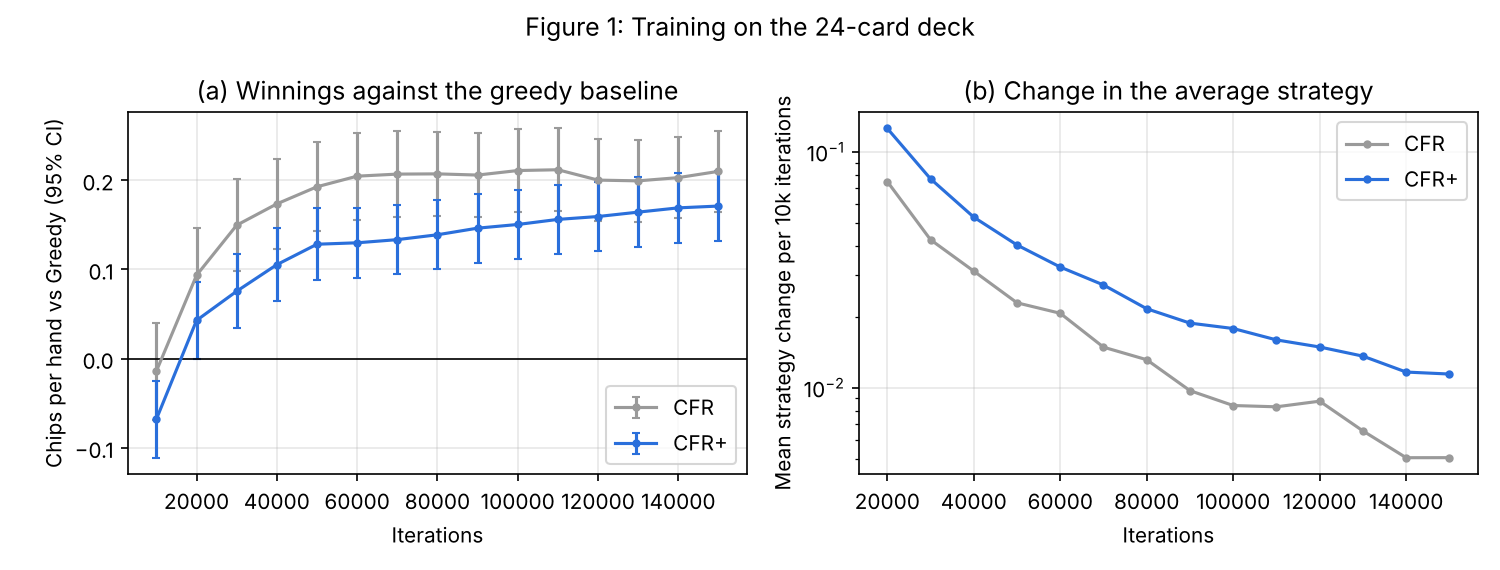
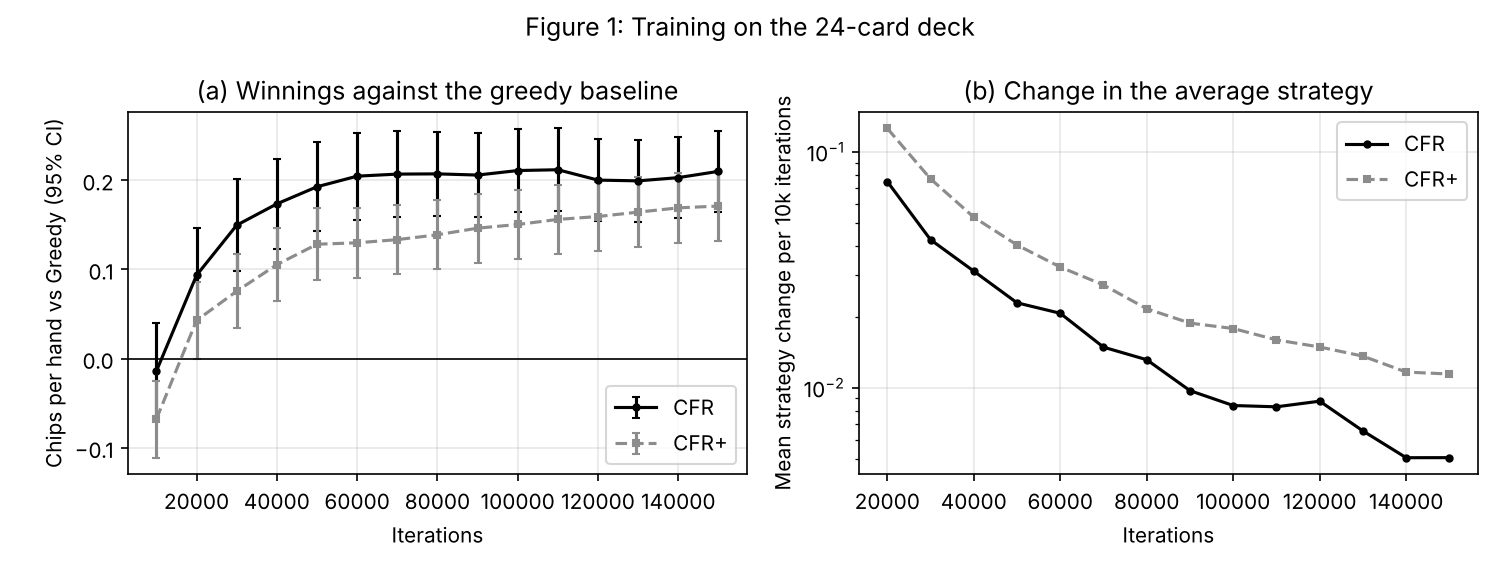
Switched to greyscale palette and added scripts for figures for final report

diff --git a/make_final_plots.py b/make_final_plots.py
@@ -1,0 +1,278 @@
+"""
+Figures and summary tables for the final report and poster (greyscale).
+
+  python make_final_plots.py
+
+Reads results/br/*.json, results/*_curve.csv, results/*_analysis.json and
+writes figures/final_*.png plus results/summary.json (every number the report
+quotes, so it can be checked against the raw results).
+"""
+
+import csv
+import glob
+import json
+import os
+import statistics as st
+
+import matplotlib
+
+matplotlib.use("Agg")
+import matplotlib.pyplot as plt  # noqa: E402
+from matplotlib.ticker import FuncFormatter, NullFormatter  # noqa: E402
+import math  # noqa: E402
+
+R, FIG = "results", "figures"
+SEEDS = (0, 1, 2)
+# name: (colour, marker, linestyle)
+STYLE = {
+    "CFR": ("#000000", "o", "-"),
+    "CFR+": ("#7f7f7f", "s", "--"),
+    "RM+ only": ("#4d4d4d", "^", ":"),
+    "Linear only": ("#a6a6a6", "D", "-."),
+    "External sampling": ("#262626", "v", (0, (5, 1))),
+}
+VARIANTS = {"CFR": "cfr24", "CFR+": "cfrplus24", "RM+ only": "rmplus24",
+            "Linear only": "linear24", "External sampling": "es24"}
+
+plt.rcParams.update({"font.size": 10, "axes.grid": True, "grid.alpha": 0.3})
+
+
+def load_br(tag):
+    p = f"{R}/br/{tag}.json"
+    return json.load(open(p)) if os.path.exists(p) else None
+
+
+def load_curve_csv(tag):
+    p = f"{R}/{tag}_curve.csv"
+    if not os.path.exists(p):
+        return {}
+    return {int(r["iteration"]): r for r in csv.DictReader(open(p))}
+
+
+def seeds_of(prefix):
+    return [s for s in SEEDS if load_br(f"{prefix}_s{s}")]
+
+
+def curve_stats(prefix, x="iteration"):
+    """Mean, min and max exploitability across seeds at each checkpoint."""
+    by_x = {}
+    for s in seeds_of(prefix):
+        br = load_br(f"{prefix}_s{s}")
+        rows = load_curve_csv(f"{prefix}_s{s}")
+        for pt in br.get("curve", []):
+            it = pt["iteration"]
+            key = it if x == "iteration" else int(rows[it]["touched"])
+            by_x.setdefault(it, []).append((key, pt["expl"]))
+    out = []
+    for it in sorted(by_x):
+        xs = [k for k, _ in by_x[it]]
+        ys = [v for _, v in by_x[it]]
+        out.append((st.mean(xs), st.mean(ys), min(ys), max(ys), len(ys)))
+    return out
+
+
+def plot_line(ax, name, pts):
+    if not pts:
+        return
+    c, m, ls = STYLE[name]
+    xs = [p[0] for p in pts]
+    ys = [p[1] for p in pts]
+    lo = [p[1] - p[2] for p in pts]
+    hi = [p[3] - p[1] for p in pts]
+    ax.errorbar(xs, ys, yerr=[lo, hi], color=c, marker=m, ls=ls, ms=4, capsize=2, label=name)
+
+
+def plain_log_axes(ax):
+    fmt = FuncFormatter(lambda v, _: f"{v:g}")
+    ax.yaxis.set_major_formatter(fmt)
+    ax.yaxis.set_minor_formatter(FuncFormatter(lambda v, _: f"{v:g}" if str(f"{v:g}")[-1] in "25" else ""))
+
+
+def slope(pts):
+    """Least-squares slope of log(exploitability) against log(x)."""
+    xs = [math.log(p[0]) for p in pts]
+    ys = [math.log(p[1]) for p in pts]
+    mx, my = st.mean(xs), st.mean(ys)
+    return sum((x - mx) * (y - my) for x, y in zip(xs, ys)) / sum((x - mx) ** 2 for x in xs)
+
+
+def fig_variants(summary):
+    fig, axes = plt.subplots(1, 2, figsize=(11, 4.2))
+    for name in ("CFR", "CFR+", "RM+ only", "Linear only"):
+        plot_line(axes[0], name, curve_stats(VARIANTS[name]))
+    axes[0].set_xscale("log")
+    axes[0].set_yscale("log")
+    axes[0].set_xlabel("Iterations")
+    axes[0].set_ylabel("Exploitability lower bound (chips/hand)")
+    axes[0].set_title("(a) CFR+ and its two ingredients")
+    axes[0].legend()
+    for name in ("CFR", "CFR+", "External sampling"):
+        plot_line(axes[1], name, curve_stats(VARIANTS[name], x="touched"))
+    axes[1].set_xscale("log")
+    axes[1].set_yscale("log")
+    axes[1].set_xlabel("Game-tree nodes visited (machine-independent cost)")
+    axes[1].set_title("(b) Equal-cost comparison with external sampling")
+    axes[1].legend()
+    for ax in axes:
+        plain_log_axes(ax)
+    fig.tight_layout()
+    fig.savefig(f"{FIG}/final_variants.png", dpi=170)
+    plt.close(fig)
+    for name, prefix in VARIANTS.items():
+        pts = curve_stats(prefix)
+        summary.setdefault("curves", {})[name] = pts
+        summary.setdefault("curves_touched", {})[name] = curve_stats(prefix, x="touched")
+        if len(pts) >= 2:
+            summary.setdefault("slopes", {})[name] = slope(pts)
+
+
+def final_table(summary):
+    """Final exploitability and self-play value per configuration and seed."""
+    tab = {}
+    for path in sorted(glob.glob(f"{R}/br/*_s[0-9].json")):
+        b = json.load(open(path))
+        f = b["final"]
+        tab[b["tag"]] = {"config": b["config"], "abstraction": b["abstraction"], "iters": b["iters"],
+                         "expl": f["bucket"]["expl"], "expl_se": f["bucket"]["se"],
+                         "in_sample": f["bucket"]["in_sample"],
+                         "br_p0": f["bucket"]["br_value_p0"], "br_p1": f["bucket"]["br_value_p1"],
+                         "selfplay_p0": f["selfplay_p0"]["mean"],
+                         "selfplay_se": f["selfplay_p0"]["se"]}
+        pkl = f"{R}/{b['tag']}_curve.csv"
+        if os.path.exists(pkl):
+            last = list(csv.DictReader(open(pkl)))[-1]
+            tab[b["tag"]]["train_seconds"] = float(last["train_seconds"])
+            tab[b["tag"]]["touched"] = int(last["touched"])
+            tab[b["tag"]]["infosets"] = int(last["infosets"])
+    summary["final"] = tab
+    groups = {}
+    for tag, row in tab.items():
+        groups.setdefault(tag.rsplit("_s", 1)[0], []).append(row)
+    summary["groups"] = {g: {"n": len(rows),
+                             "expl_mean": st.mean(r["expl"] for r in rows),
+                             "expl_min": min(r["expl"] for r in rows),
+                             "expl_max": max(r["expl"] for r in rows),
+                             "selfplay_mean": st.mean(r["selfplay_p0"] for r in rows),
+                             "selfplay_min": min(r["selfplay_p0"] for r in rows),
+                             "selfplay_max": max(r["selfplay_p0"] for r in rows)}
+                         for g, rows in groups.items()}
+    return tab
+
+
+def fig_decks(summary):
+    tab = summary["final"]
+    fig, axes = plt.subplots(1, 2, figsize=(10, 3.8))
+    labels = ["20-card", "24-card", "28-card"]
+    prefixes = ["cfr20", "cfr24", "cfr28"]
+    for i, pre in enumerate(prefixes):
+        rows = [tab[f"{pre}_s{s}"] for s in SEEDS if f"{pre}_s{s}" in tab]
+        for j, r in enumerate(rows):
+            off = (j - 1) * 0.12
+            axes[0].errorbar(i + off, r["expl"], yerr=1.96 * r["expl_se"], fmt="o", color="black",
+                             capsize=3, ms=4)
+            axes[1].errorbar(i + off, r["selfplay_p0"], yerr=1.96 * r["selfplay_se"], fmt="s",
+                             color="black", capsize=3, ms=4)
+    for ax in axes:
+        ax.set_xticks(range(3))
+        ax.set_xticklabels(labels)
+        ax.set_xlim(-0.5, 2.5)
+    axes[0].set_ylabel("Exploitability lower bound (chips/hand)")
+    axes[0].set_title("(a) Exploitability by deck")
+    axes[0].set_ylim(bottom=0)
+    axes[1].set_ylabel("P0 value in self-play (chips/hand)")
+    axes[1].set_title("(b) First-player value by deck")
+    fig.tight_layout()
+    fig.savefig(f"{FIG}/final_decks.png", dpi=170)
+    plt.close(fig)
+
+
+def behaviour(summary):
+    """Behaviour statistics across seeds (from `analyse`)."""
+    out = {}
+    for path in sorted(glob.glob(f"{R}/*_s[0-9]_analysis.json")):
+        a = json.load(open(path))
+        tag = os.path.basename(path).replace("_analysis.json", "")
+        hc = a["draw_by_category"].get("High card", {})
+        trips = a["draw_by_category"].get("Three of a kind", {})
+        resp = a["p1_response_to_bet_by_p0_draw"]
+        bets = a["first_bet_by_final_category"]
+        out[tag] = {
+            "vs_greedy": a["vs_greedy"]["mean"], "vs_greedy_se": a["vs_greedy"]["se"],
+            "vs_random": a["vs_random"]["mean"], "vs_random_se": a["vs_random"]["se"],
+            "pat_on_high_card": hc.get("0"), "one_to_trips": trips.get("1"),
+            "fold_vs_pat": resp.get("0", {}).get("f"),
+            "fold_vs_draw": {k: v.get("f") for k, v in resp.items() if k != "0"},
+            "raise_vs_pat": resp.get("0", {}).get("r"),
+            "raise_vs_draw": {k: v.get("r") for k, v in resp.items() if k != "0"},
+            "bet_by_category": bets,
+        }
+    summary["behaviour"] = out
+
+
+def fig_draws(tag="cfr24_s0"):
+    p = f"{R}/{tag}_analysis.json"
+    if not os.path.exists(p):
+        # identical strategy (same seed and length)
+        p = f"{R}/cfr24_analysis.json"
+    a = json.load(open(p))
+    order = ["High card", "One pair", "Two pair", "Three of a kind", "Straight", "Full house", "Flush"]
+    order = [c for c in order if c in a["draw_by_category"]]
+    shades = ["#262626", "#666666", "#a6a6a6", "#e0e0e0"]
+    fig, ax = plt.subplots(figsize=(8, 3.6))
+    for i, cat in enumerate(order[::-1]):
+        left = 0.0
+        d = a["draw_by_category"][cat]
+        for k in range(4):
+            v = d.get(str(k), 0.0)
+            ax.barh(i, v, left=left, color=shades[k], edgecolor="black", linewidth=0.4,
+                    label=f"draw {k}" if i == 0 else None)
+            if v >= 0.07:
+                ax.text(left + v / 2, i, f"{v:.0%}", ha="center", va="center", fontsize=8,
+                        color="white" if k < 2 else "black")
+            left += v
+    ax.set_yticks(range(len(order)))
+    ax.set_yticklabels(order[::-1])
+    ax.set_xlim(0, 1)
+    ax.set_xlabel("Share of decisions (reach-weighted, self-play)")
+    ax.legend(ncol=4, loc="upper center", bbox_to_anchor=(0.5, -0.2), frameon=False)
+    ax.grid(False)
+    fig.tight_layout()
+    fig.savefig(f"{FIG}/final_draws.png", dpi=170)
+    plt.close(fig)
+
+
+def fig_kuhn():
+    p = f"{R}/kuhn_convergence.csv"
+    if not os.path.exists(p):
+        return
+    rows = list(csv.DictReader(open(p)))
+    t = [int(r["iteration"]) for r in rows]
+    e = [float(r["exploitability"]) for r in rows]
+    fig, ax = plt.subplots(figsize=(5.5, 3.6))
+    ax.loglog(t, e, "o-", color="black", ms=3, label="CFR average strategy")
+    c = e[0] * t[0] ** 0.5
+    ax.loglog(t, [c / x ** 0.5 for x in t], "--", color="grey", label="O(1/sqrt(T)) reference")
+    ax.set_xlabel("Iterations")
+    ax.set_ylabel("Exact exploitability")
+    ax.legend()
+    fig.tight_layout()
+    fig.savefig(f"{FIG}/final_kuhn.png", dpi=170)
+    plt.close(fig)
+
+
+def main():
+    os.makedirs(FIG, exist_ok=True)
+    summary = {}
+    fig_variants(summary)
+    final_table(summary)
+    fig_decks(summary)
+    behaviour(summary)
+    fig_draws()
+    fig_kuhn()
+    with open(f"{R}/summary.json", "w") as f:
+        json.dump(summary, f, indent=1)
+    print("figures written; summary in results/summary.json")
+
+
+if __name__ == "__main__":
+    main()

diff --git a/make_plots.py b/make_plots.py
@@ -13,7 +13,8 @@ matplotlib.use("Agg")
 import matplotlib.pyplot as plt
 
 R, F = "results", "figures"
-GREY, BLUE, LIGHT = "#9a9a9a", "#2a6fdb", "#c9d8f5"
+# greyscale
+GREY, BLUE, LIGHT = "#8c8c8c", "#000000", "#d9d9d9"
 
 
 def curve(tag):
@@ -28,14 +29,14 @@ def analysis(tag):
 
 def fig_convergence():
     fig, axes = plt.subplots(1, 2, figsize=(10, 3.8))
-    for tag, name, col in [("cfr24", "CFR", GREY), ("cfrplus24", "CFR+", BLUE)]:
+    for tag, name, col, mk, ls in [("cfr24", "CFR", BLUE, "o", "-"), ("cfrplus24", "CFR+", GREY, "s", "--")]:
         rows = curve(tag)
         t = [int(r["iteration"]) for r in rows]
         g = [float(r["vs_greedy"]) for r in rows]
         se = [float(r["vs_greedy_se"]) for r in rows]
-        axes[0].errorbar(t, g, yerr=[1.96 * s for s in se], marker="o", ms=3, capsize=2, color=col, label=name)
+        axes[0].errorbar(t, g, yerr=[1.96 * s for s in se], marker=mk, ls=ls, ms=3, capsize=2, color=col, label=name)
         ch = [float(r["strategy_change"]) for r in rows[1:]]
-        axes[1].plot(t[1:], ch, marker="o", ms=3, color=col, label=name)
+        axes[1].plot(t[1:], ch, marker=mk, ls=ls, ms=3, color=col, label=name)
     axes[0].axhline(0, color="black", lw=0.8)
     axes[0].set_xlabel("Iterations")
     axes[0].set_ylabel("Chips per hand vs Greedy (95% CI)")
@@ -73,12 +74,12 @@ def fig_draws():
     a = analysis("cfr24")
     order = [c for c in ["High card", "One pair", "Two pair", "Three of a kind", "Straight",
                          "Full house", "Flush"] if c in a["draw_by_category"]]
-    shades = ["#1f4fa0", "#4d7fd0", "#8fb0e6", "#d3e0f6"]
+    shades = ["#262626", "#666666", "#a6a6a6", "#e0e0e0"]
     fig, ax = plt.subplots(figsize=(7.5, 3.8))
     left = [0.0] * len(order)
     for k in range(4):
         vals = [a["draw_by_category"][c].get(str(k), 0.0) for c in order]
-        ax.barh(order, vals, left=left, color=shades[k], label=f"draw {k}")
+        ax.barh(order, vals, left=left, color=shades[k], edgecolor="black", linewidth=0.4, label=f"draw {k}")
         for i, v in enumerate(vals):
             if v > 0.07:
                 ax.text(left[i] + v / 2, i, f"{v:.0%}", ha="center", va="center", fontsize=8,
